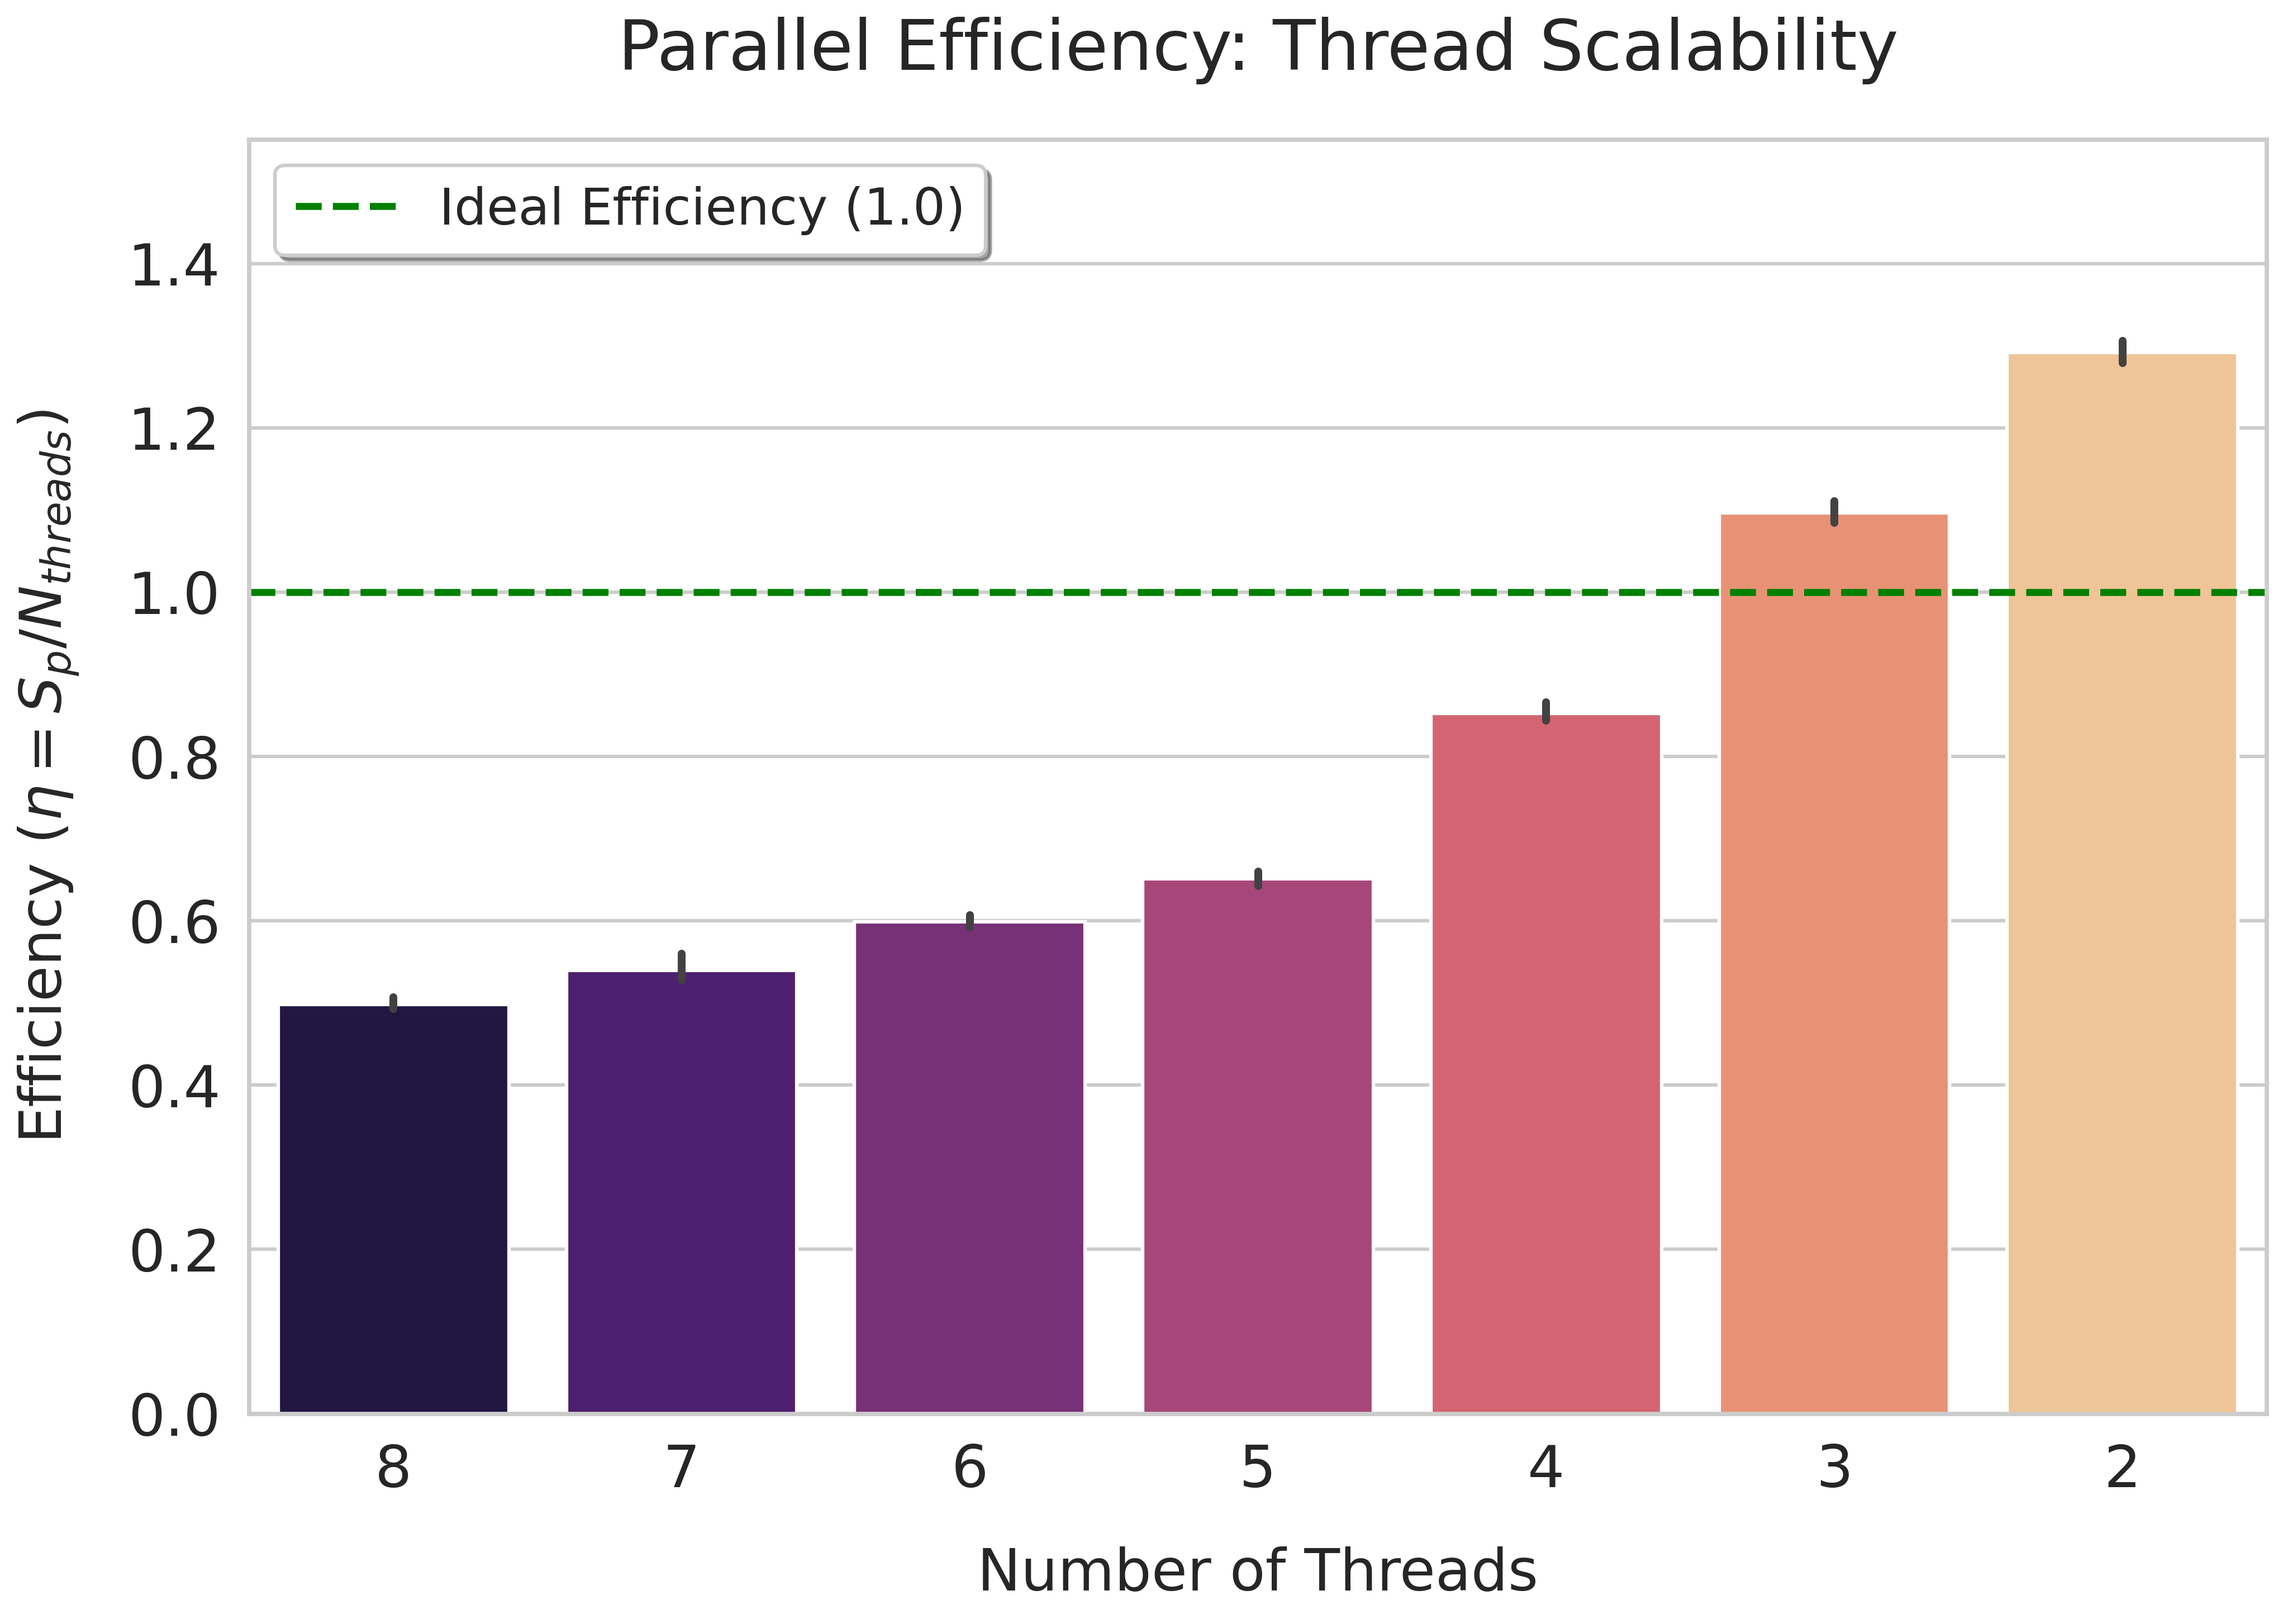
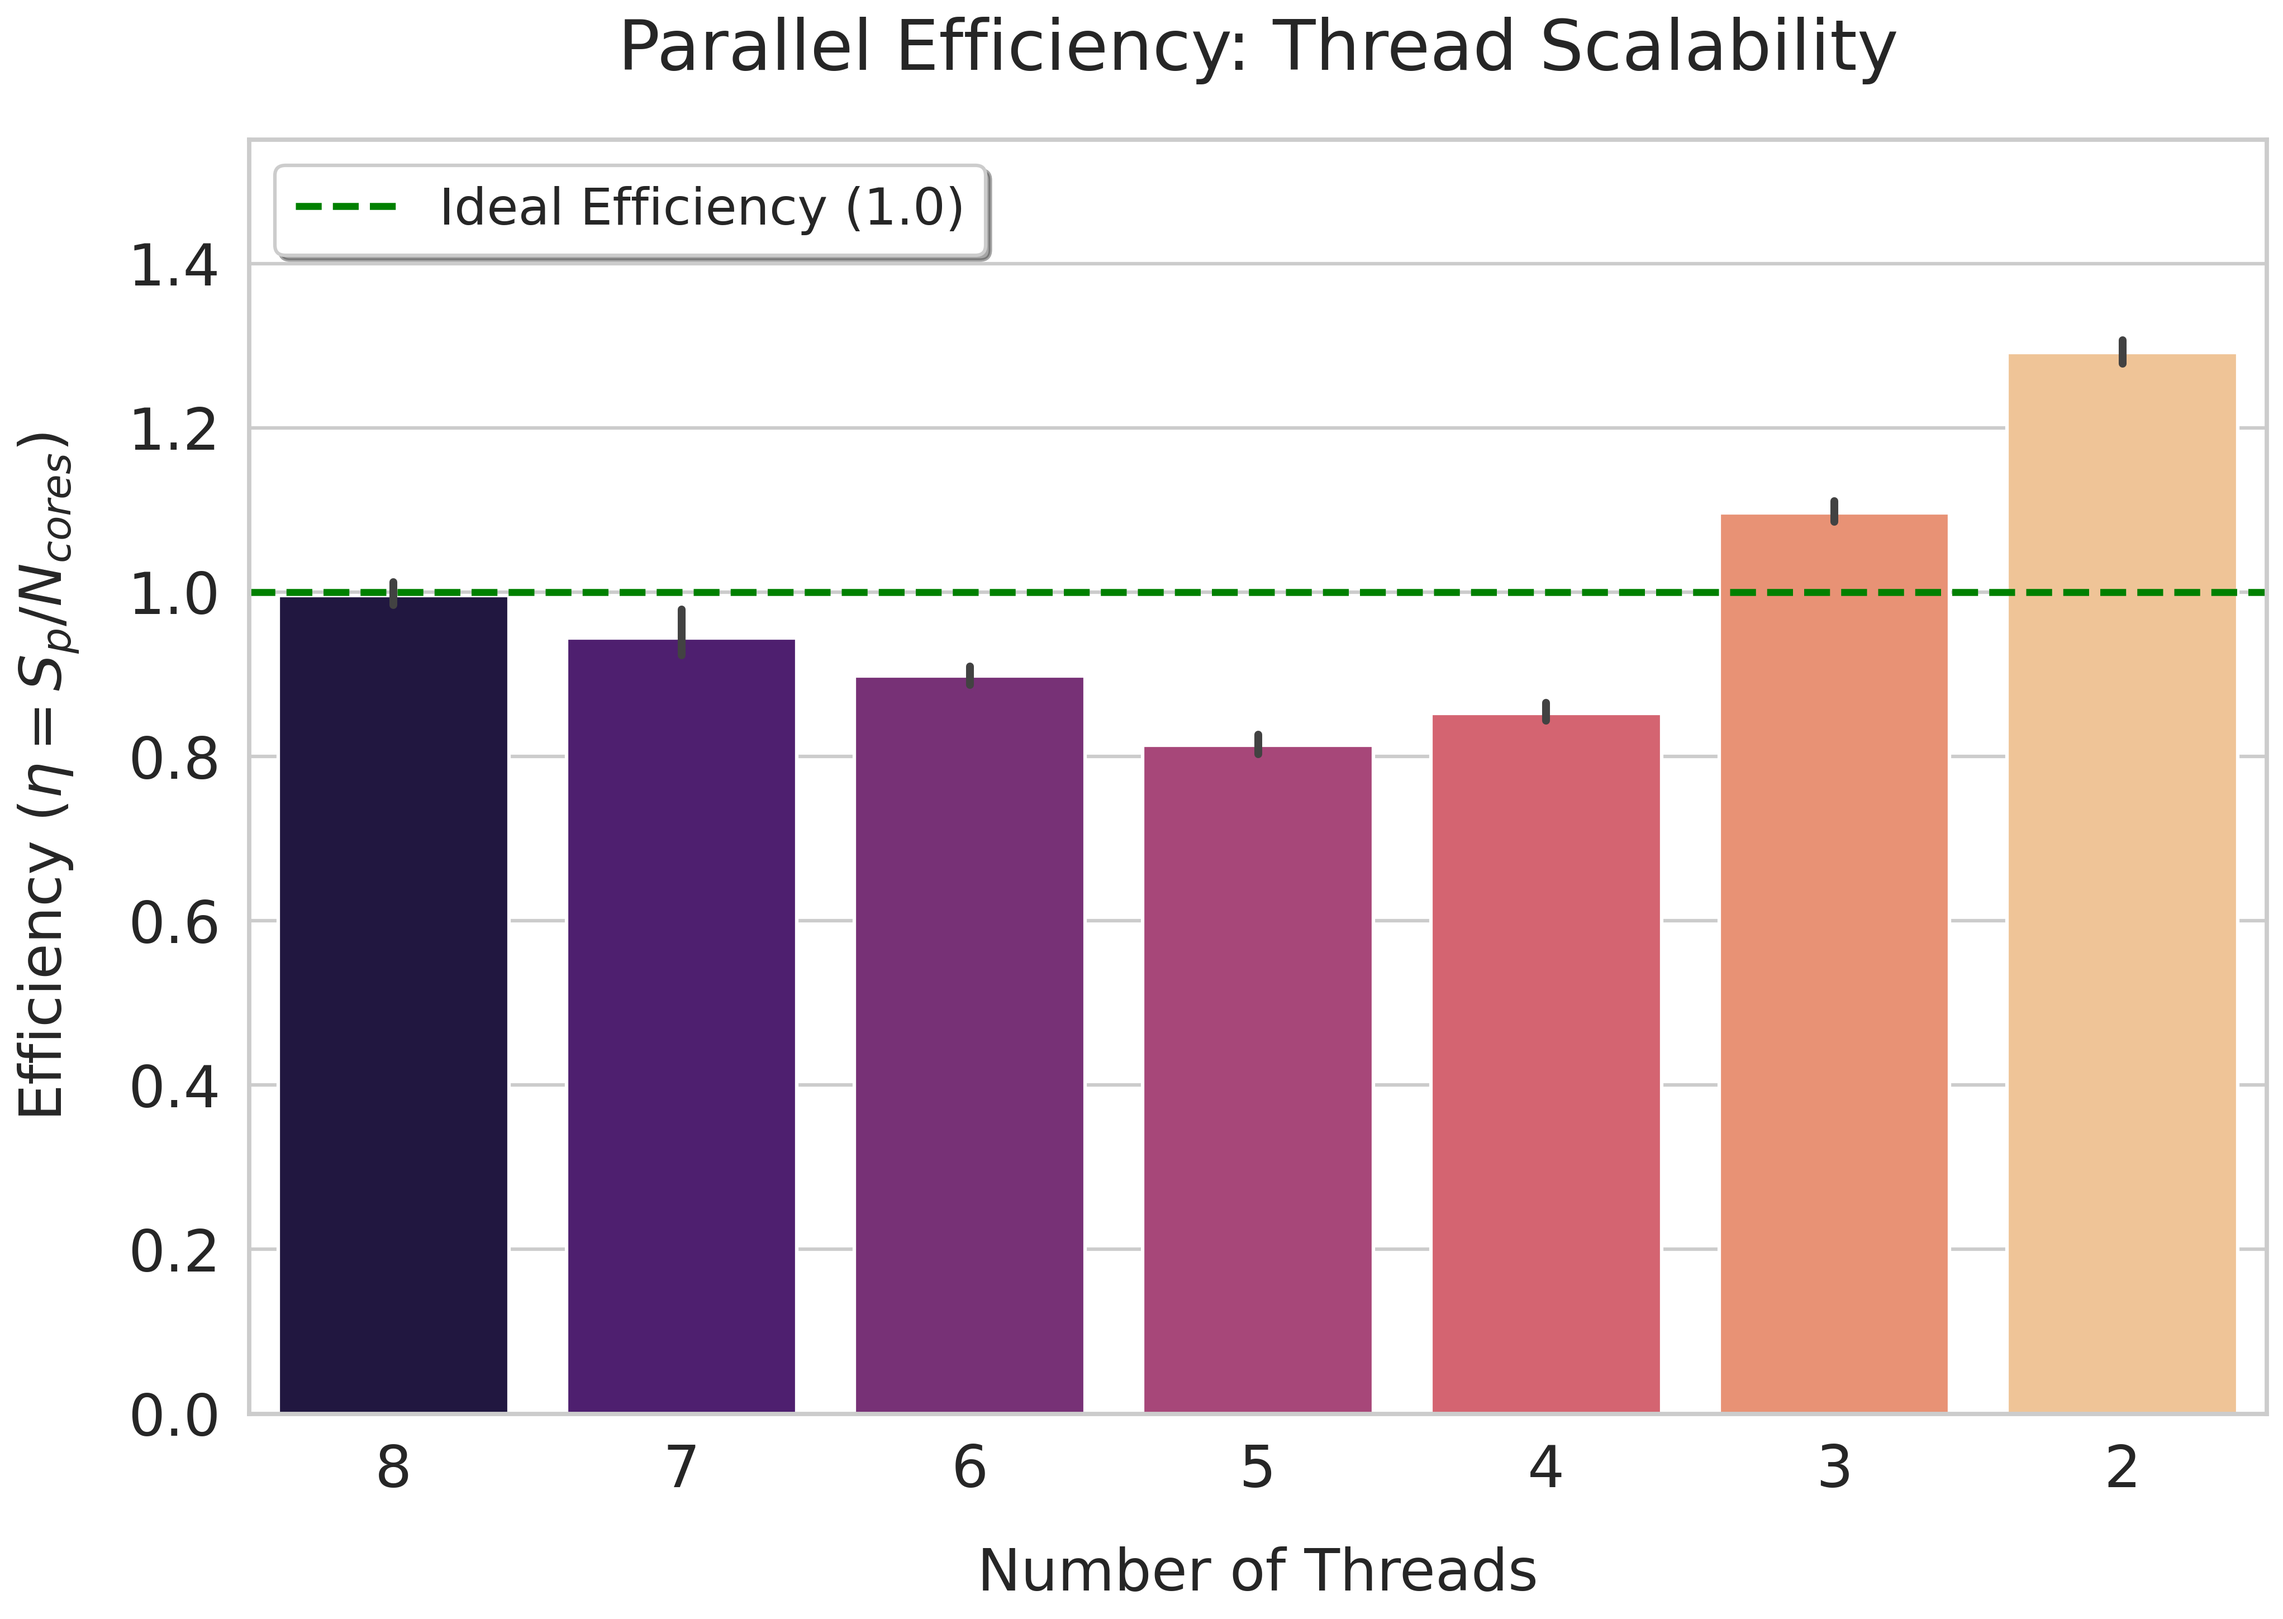
efficiency chart correction

Changed region(s): [[0.1243, 0.3416, 0.6216, 0.6211], [0.0, 0.2484, 0.0311, 0.7143]]

diff --git a/python/plot_fit_efficiency.py b/python/plot_fit_efficiency.py
@@ -13,7 +13,7 @@ def generate_efficiency_plot(results_dir, output_path):
     master_df['Threads'] = master_df['Strategy'].str.extract(r'(\d+)').astype(int)
     avg_seq_time = master_df[master_df['Threads'] == 1]['TotalTime'].mean()
     master_df['Speedup'] = avg_seq_time / master_df['TotalTime']
-    master_df['Efficiency'] = master_df['Speedup'] / master_df['Threads']
+    master_df['Efficiency'] = master_df['Speedup'] / master_df['Threads'].clip(upper=4)
 
     plot_df = master_df[master_df['Threads'] != 1].copy()
     plot_df = plot_df.sort_values(by='Threads', ascending=False)
@@ -34,7 +34,7 @@ def generate_efficiency_plot(results_dir, output_path):
     plt.axhline(1.0, color='green', linestyle='--', linewidth=3, label='Ideal Efficiency (1.0)')
 
     plt.title('Parallel Efficiency: Thread Scalability', fontsize=30, pad=30)
-    plt.ylabel('Efficiency ($\eta = S_p / N_{threads}$)', fontsize=25, labelpad=20)
+    plt.ylabel('Efficiency ($\eta = S_p / N_{cores}$)', fontsize=25, labelpad=20)
     plt.xlabel('Number of Threads', fontsize=25, labelpad=20)
     
     plt.xticks(fontsize=25) 
